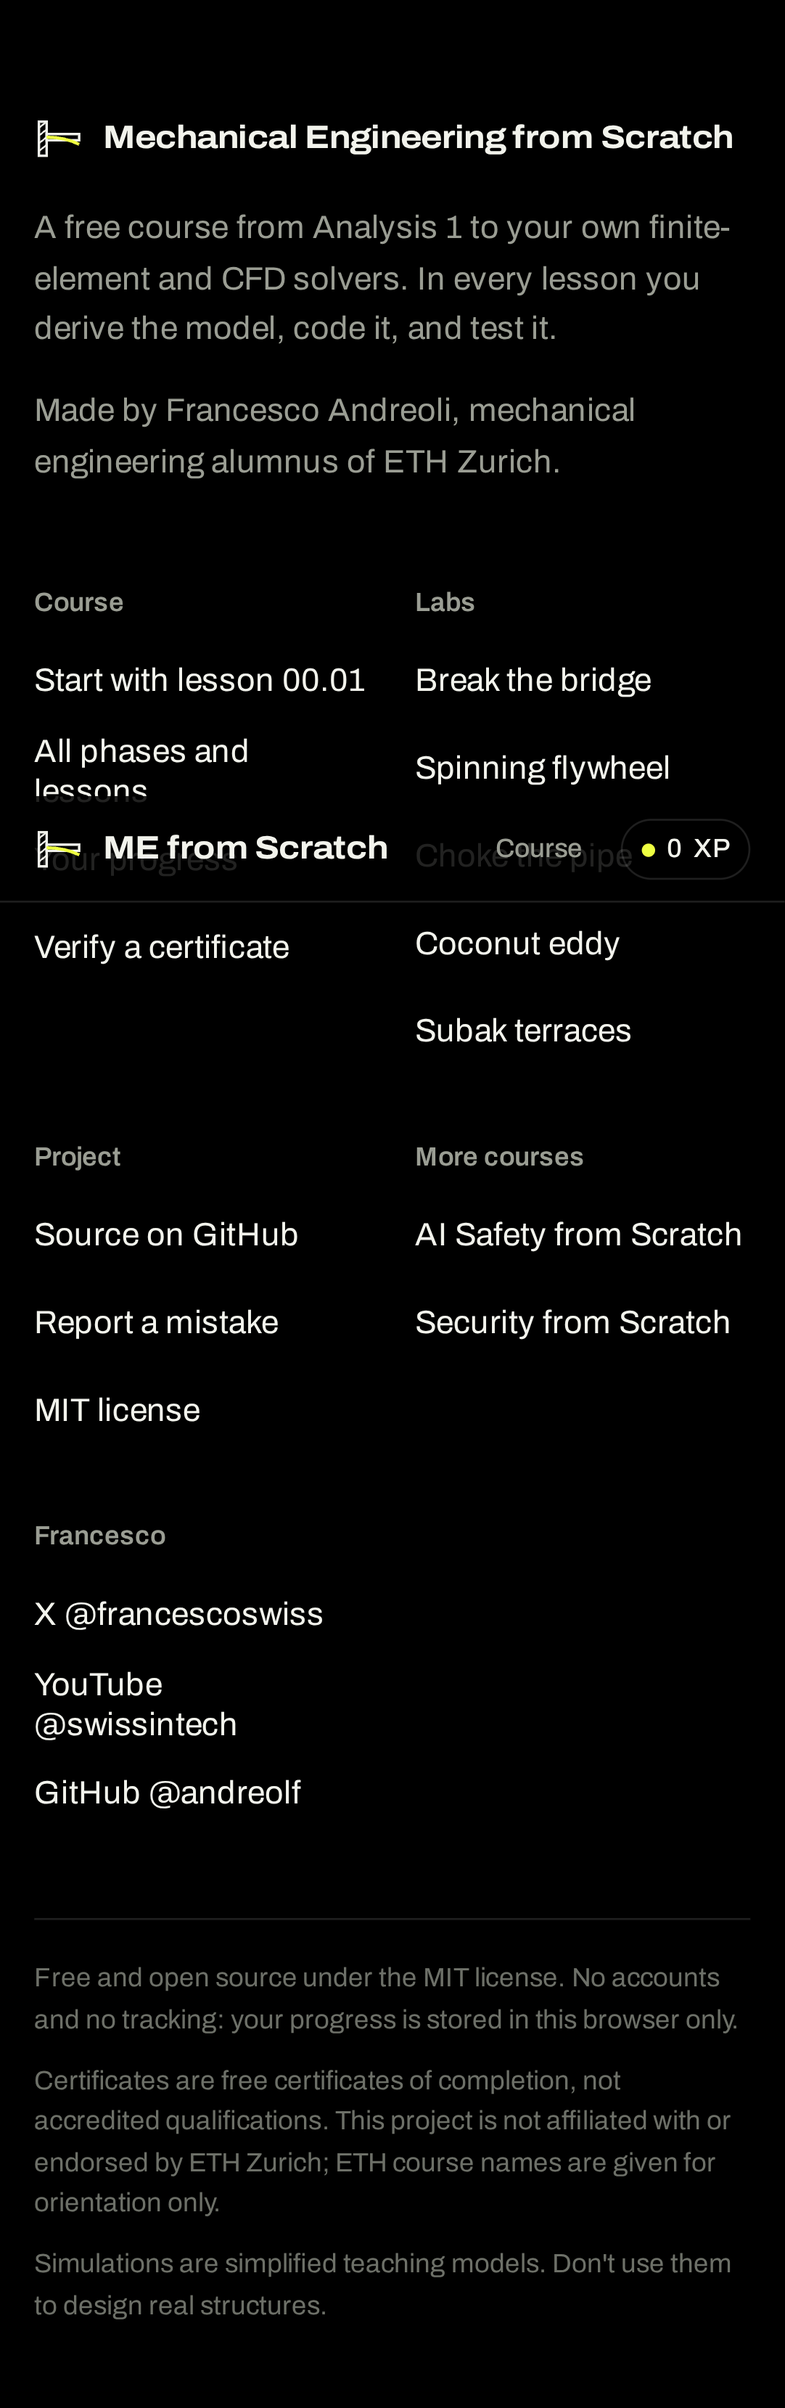
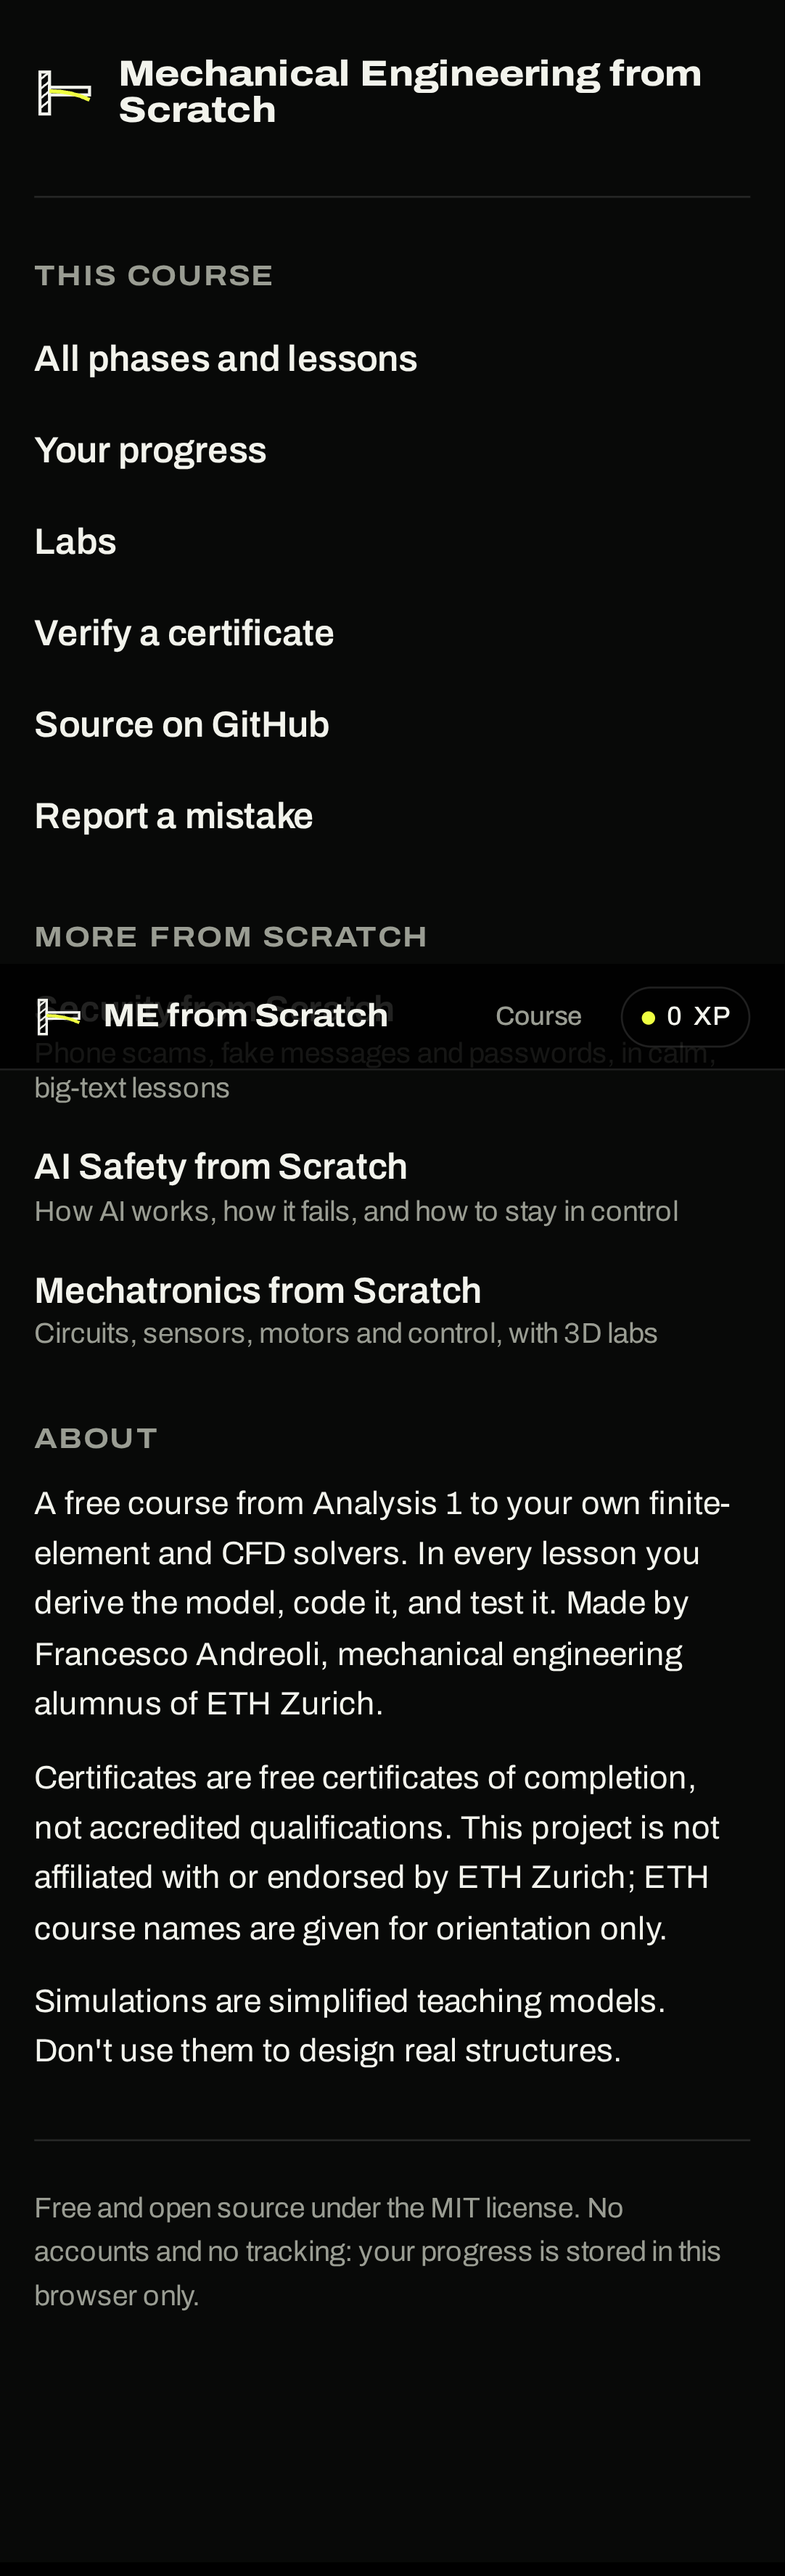
Shared 'from Scratch' footer (spec v1): This course / More from Scratch / About, tokens mapped to this site; footer tests; footer screenshots

diff --git a/site/src/styles/base.css b/site/src/styles/base.css
@@ -89,21 +89,44 @@ input[type=checkbox], input[type=radio] { accent-color: var(--lime); width: 20px
 .xp-chip { display: inline-flex; align-items: center; gap: 6px; min-height: 32px; padding: 0 10px; border-radius: 999px; border: 1px solid var(--rule); color: var(--paper); font-size: var(--t-1); font-variant-numeric: tabular-nums; }
 .xp-chip i { width: 7px; height: 7px; border-radius: 50%; background: var(--lime); }
 
-/* Footer */
-.footer { border-top: 1px solid var(--rule); margin-top: 0; padding: 56px 0 calc(36px + env(safe-area-inset-bottom)); background: var(--ink); }
-.footer-grid { display: grid; gap: 36px 24px; grid-template-columns: 1fr 1fr; }
-.footer-about { grid-column: 1 / -1; max-width: 34em; }
-.footer-about p { color: var(--graphite); margin-top: 12px; }
-.footer h2 { font-size: var(--t-1); font-stretch: 100%; font-weight: 600; letter-spacing: 0; color: var(--graphite); margin: 0 0 12px; }
-.footer ul { list-style: none; margin: 0; padding: 0; display: grid; gap: 2px; }
-.footer li a { display: inline-flex; align-items: center; min-height: 44px; line-height: 1.25; text-decoration: none; color: var(--paper); }
-.footer li a:hover { color: var(--lime); }
-.footer-legal { margin-top: 44px; padding-top: 20px; border-top: 1px solid var(--rule); display: grid; gap: 10px; color: var(--dim); font-size: var(--t-1); }
-.footer-legal p { margin: 0; max-width: 72ch; }
-@media (min-width: 900px) {
-  .footer-grid { grid-template-columns: 2fr repeat(5, 1fr); }
-  .footer-about { grid-column: auto; }
+/* Footer: shared "from Scratch" footer (spec v1). Signal token names mapped to this site's tokens, scoped to the footer. */
+.foot {
+  --surface: var(--raise-2); --surface-2: #080908; --line: var(--rule); --fg: var(--paper); --muted-strong: var(--graphite);
+  --accent: var(--lime); --on-accent: var(--lime-ink); --accent-ink: var(--lime); --font-body: var(--sans);
+  --weight-black: 800; --weight-extrabold: 700; --weight-bold: 600; --weight-regular: 400; --stretch-expanded: 112%;
+  --text-sm: 0.88rem; --text-body: var(--t0); --text-lg: var(--t1); --text-xl: var(--t2); --leading-snug: 1.25; --leading-body: 1.55;
+  --space-1: 4px; --space-2: 8px; --space-3: 12px; --space-4: 16px; --space-5: 24px; --space-6: 32px; --space-7: 48px; --space-8: 64px;
+  --radius: var(--radius-m); --tap-min: 44px; --tap: 48px;
+  color: var(--fg);
 }
+/* Footer: its own band. Top row = brand + emergency callout; grid of three columns; muted bottom row. */
+.foot { background: var(--surface-2); border-top: 1px solid var(--line); margin-top: 0; padding: var(--space-7) 0 calc(var(--space-8) + 64px); font-size: 1.125rem; line-height: var(--leading-body); }
+.foot a { text-decoration: none; }
+.foot-brand:hover span:last-child, .foot-brand:focus-visible span:last-child { text-decoration: underline; text-decoration-thickness: 2px; text-underline-offset: 4px; }
+.foot a:hover .foot-link-t, .foot a:focus-visible .foot-link-t, .foot-list:not(.foot-list-desc) a:hover, .foot-list:not(.foot-list-desc) a:focus-visible { text-decoration: underline; text-decoration-thickness: 2px; text-underline-offset: 4px; text-decoration-color: var(--accent-ink); }
+.foot-top { display: flex; flex-wrap: wrap; align-items: center; justify-content: space-between; gap: var(--space-5); padding-bottom: var(--space-6); border-bottom: 1px solid var(--line); }
+.foot-brand { display: inline-flex; align-items: center; gap: var(--space-3); min-height: var(--tap-min); font-weight: var(--weight-black); font-stretch: var(--stretch-expanded); font-size: clamp(var(--text-body), 4.6vw, var(--text-lg)); line-height: 1; white-space: nowrap; }
+.foot-sos { margin: 0; display: flex; flex-direction: column; align-items: flex-start; gap: var(--space-2); padding: var(--space-4) var(--space-5); background: var(--surface); border: 2px solid var(--fg); border-radius: var(--radius); }
+.foot-sos-label { font-size: var(--text-sm); font-weight: var(--weight-extrabold); line-height: var(--leading-snug); }
+.foot-sos-nums { display: grid; grid-template-columns: repeat(3, auto); justify-content: start; gap: var(--space-6); }
+.foot-sos-nums > span { display: flex; flex-direction: column; gap: var(--space-1); white-space: nowrap; color: var(--muted-strong); font-size: var(--text-sm); }
+.foot-sos-nums b { color: var(--fg); font-weight: var(--weight-black); font-stretch: var(--stretch-expanded); font-size: var(--text-xl); line-height: 1; font-variant-numeric: tabular-nums; }
+.foot-grid { display: grid; grid-template-columns: minmax(0, 1fr) minmax(0, 1.4fr) minmax(0, 1.6fr); gap: var(--space-6) var(--space-7); padding: var(--space-6) 0; }
+.foot-h { margin: 0 0 var(--space-3); font-family: var(--font-body); font-size: var(--text-sm); font-weight: var(--weight-extrabold); text-transform: uppercase; letter-spacing: .06em; color: var(--muted-strong); line-height: var(--leading-snug); }
+.foot-list { list-style: none; margin: 0; padding: 0; display: grid; gap: var(--space-1); }
+.foot-list a { display: flex; align-items: center; min-height: var(--tap-min); font-weight: var(--weight-bold); line-height: var(--leading-snug); }
+.foot-list-desc { gap: var(--space-3); }
+.foot-list-desc a { flex-direction: column; align-items: flex-start; justify-content: center; gap: 2px; padding: var(--space-1) 0; }
+.foot-link-d { font-weight: var(--weight-regular); font-size: var(--text-sm); color: var(--muted-strong); }
+.foot-about p { margin: 0 0 var(--space-3); max-width: 62ch; font-size: var(--text-body); }
+.foot-about p:last-child { margin-bottom: 0; }
+.foot-bottom { display: flex; flex-wrap: wrap; justify-content: space-between; gap: var(--space-2) var(--space-6); padding-top: var(--space-5); border-top: 1px solid var(--line); color: var(--muted-strong); font-size: var(--text-sm); }
+.foot-bottom p { margin: 0; }
+@media (max-width: 960px) { .foot-grid { grid-template-columns: minmax(0, 1fr) minmax(0, 1.4fr); } .foot-about { grid-column: 1 / -1; } }
+@media (max-width: 600px) { .foot { padding-top: var(--space-6); } .foot-sos-nums { align-self: stretch; justify-content: space-between; gap: var(--space-4); } .foot-grid { grid-template-columns: minmax(0, 1fr); gap: var(--space-6); } .foot-sos { width: 100%; } }
+.foot a { color: var(--fg); }
+.foot-brand { white-space: normal; }
+.foot-brand .brand-mark { width: 32px; height: 32px; }
 
 @media (prefers-reduced-motion: reduce) { *, *::before, *::after { transition-duration: 0.01ms !important; animation-duration: 0.01ms !important; scroll-behavior: auto !important; } }
 
@@ -120,4 +143,3 @@ input[type=checkbox], input[type=radio] { accent-color: var(--lime); width: 20px
   .xp-chip { padding: 0 7px; gap: 4px; }
 }
 
-.footer .brand { white-space: normal; }

diff --git a/site/src/chrome.js b/site/src/chrome.js
@@ -29,41 +29,42 @@ export function renderFooter(page) {
   const host = document.getElementById('site-footer');
   if (!host) return;
   const home = page === 'home' ? '' : 'index.html';
-  host.className = 'footer';
+  host.className = 'foot';
+  host.setAttribute('aria-labelledby', 'foot-h');
   host.innerHTML = `<div class="wrap">
-    <div class="footer-grid">
-      <div class="footer-about">
-        <a class="brand" href="${home || './'}">${MARK}<span>Mechanical Engineering from Scratch</span></a>
-        <p>A free course from Analysis 1 to your own finite-element and CFD solvers. In every lesson you derive the model, code it, and test it.</p>
-        <p>Made by Francesco Andreoli, mechanical engineering alumnus of ETH Zurich.</p>
-      </div>
-      <div><h2>Course</h2><ul>
-        <li><a href="learn.html#/00.01">Start with lesson 00.01</a></li>
-        <li><a href="learn.html#/course">All phases and lessons</a></li>
-        <li><a href="learn.html#/progress">Your progress</a></li>
-        <li><a href="learn.html#/verify">Verify a certificate</a></li></ul></div>
-      <div><h2>Labs</h2><ul>
-        <li><a href="${home}#lab-truss">Break the bridge</a></li>
-        <li><a href="${home}#lab-flywheel">Spinning flywheel</a></li>
-        <li><a href="${home}#lab-pipe">Choke the pipe</a></li>
-        <li><a href="https://andreolf.github.io/coconut-lab/" rel="noopener">Coconut eddy</a></li>
-        <li><a href="https://andreolf.github.io/subak-lab/" rel="noopener">Subak terraces</a></li></ul></div>
-      <div><h2>Project</h2><ul>
-        <li><a href="${REPO}" rel="noopener">Source on GitHub</a></li>
-        <li><a href="${REPO}/issues" rel="noopener">Report a mistake</a></li>
-        <li><a href="${REPO}/blob/main/LICENSE" rel="noopener">MIT license</a></li></ul></div>
-      <div data-testid="more-courses"><h2>More courses</h2><ul>
-        <li><a href="https://andreolf.github.io/ai-safety-from-scratch/" rel="noopener">AI Safety from Scratch</a></li>
-        <li><a href="https://andreolf.github.io/security-from-scratch/" rel="noopener">Security from Scratch</a></li></ul></div>
-      <div><h2>Francesco</h2><ul>
-        <li><a href="https://x.com/francescoswiss" rel="noopener">X @francescoswiss</a></li>
-        <li><a href="https://www.youtube.com/@swissintech" rel="noopener">YouTube @swissintech</a></li>
-        <li><a href="https://github.com/andreolf" rel="noopener">GitHub @andreolf</a></li></ul></div>
+    <h2 class="sr-only" id="foot-h">About this site</h2>
+    <div class="foot-top">
+      <a class="foot-brand" href="${home || './'}" aria-label="Mechanical Engineering from Scratch, home">${MARK}<span translate="no">Mechanical Engineering from Scratch</span></a>
     </div>
-    <div class="footer-legal">
+    <div class="foot-grid">
+      <nav class="foot-col" aria-labelledby="foot-course">
+        <h3 class="foot-h" id="foot-course">This course</h3>
+        <ul class="foot-list">
+          <li><a href="learn.html#/course">All phases and lessons</a></li>
+          <li><a href="learn.html#/progress">Your progress</a></li>
+          <li><a href="${home}#labs">Labs</a></li>
+          <li><a href="learn.html#/verify">Verify a certificate</a></li>
+          <li><a href="${REPO}" rel="noopener">Source on GitHub</a></li>
+          <li><a href="${REPO}/issues" rel="noopener">Report a mistake</a></li>
+        </ul>
+      </nav>
+      <nav class="foot-col" aria-labelledby="foot-more" data-testid="sibling-courses">
+        <h3 class="foot-h" id="foot-more">More from Scratch</h3>
+        <ul class="foot-list foot-list-desc">
+          <li><a href="https://andreolf.github.io/security-from-scratch/" target="_blank" rel="noopener"><span class="foot-link-t" translate="no">Security from Scratch</span><span class="foot-link-d">Phone scams, fake messages and passwords, in calm, big-text lessons</span></a></li>
+          <li><a href="https://andreolf.github.io/ai-safety-from-scratch/" target="_blank" rel="noopener"><span class="foot-link-t" translate="no">AI Safety from Scratch</span><span class="foot-link-d">How AI works, how it fails, and how to stay in control</span></a></li>
+          <li><a href="https://andreolf.github.io/mechatronics-from-scratch/" target="_blank" rel="noopener"><span class="foot-link-t" translate="no">Mechatronics from Scratch</span><span class="foot-link-d">Circuits, sensors, motors and control, with 3D labs</span></a></li>
+        </ul>
+      </nav>
+      <section class="foot-col foot-about" aria-labelledby="foot-about">
+        <h3 class="foot-h" id="foot-about">About</h3>
+        <p>A free course from Analysis 1 to your own finite-element and CFD solvers. In every lesson you derive the model, code it, and test it. Made by Francesco Andreoli, mechanical engineering alumnus of ETH Zurich.</p>
+        <p>Certificates are free certificates of completion, not accredited qualifications. This project is not affiliated with or endorsed by ETH Zurich; ETH course names are given for orientation only.</p>
+        <p>Simulations are simplified teaching models. Don't use them to design real structures.</p>
+      </section>
+    </div>
+    <div class="foot-bottom">
       <p>Free and open source under the MIT license. No accounts and no tracking: your progress is stored in this browser only.</p>
-      <p>Certificates are free certificates of completion, not accredited qualifications. This project is not affiliated with or endorsed by ETH Zurich; ETH course names are given for orientation only.</p>
-      <p>Simulations are simplified teaching models. Don't use them to design real structures.</p>
     </div>
   </div>`;
 }

diff --git a/site/tests/home.spec.js b/site/tests/home.spec.js
@@ -179,9 +179,16 @@ test.describe('Home page', () => {
     await footer.scrollIntoViewIfNeeded();
     await expect(footer).toContainText('not affiliated with or endorsed by ETH Zurich');
     await expect(footer.getByRole('link', { name: /GitHub/ }).first()).toHaveAttribute('href', /github\.com\/andreolf/);
-    const more = footer.getByTestId('more-courses');
-    await expect(more.getByRole('link', { name: 'AI Safety from Scratch' })).toHaveAttribute('href', 'https://andreolf.github.io/ai-safety-from-scratch/');
-    await expect(more.getByRole('link', { name: 'Security from Scratch' })).toHaveAttribute('href', 'https://andreolf.github.io/security-from-scratch/');
+    await expect(footer.locator('.foot-h')).toHaveText(['This course', 'More from Scratch', 'About']);
+    const sib = footer.getByTestId('sibling-courses');
+    for (const [name, url] of [['Security from Scratch', 'https://andreolf.github.io/security-from-scratch/'], ['AI Safety from Scratch', 'https://andreolf.github.io/ai-safety-from-scratch/'], ['Mechatronics from Scratch', 'https://andreolf.github.io/mechatronics-from-scratch/']])
+      await expect(sib.getByRole('link', { name })).toHaveAttribute('href', url);
+    await expect(sib.getByRole('link', { name: /Mechanical Engineering from Scratch/ })).toHaveCount(0);
+    const links = await footer.locator('.foot-list a').evaluateAll((as) => as.map((a) => ({ h: a.getBoundingClientRect().height, d: getComputedStyle(a).textDecorationLine, t: getComputedStyle(a.querySelector('.foot-link-t') || a).textDecorationLine })));
+    expect(links.length).toBe(9);
+    for (const l of links) { expect(l.h).toBeGreaterThanOrEqual(44); expect(l.d).toBe('none'); expect(l.t).toBe('none'); }
+    await expect(footer).toContainText("Certificates are free certificates of completion, not accredited qualifications. This project is not affiliated with or endorsed by ETH Zurich; ETH course names are given for orientation only.");
+    await expect(page.locator('main')).not.toContainText(/Sister course|Sibling courses/);
     if (isTouch(info)) {
       const small = await smallTargets(page, '#site-footer');
       expect(small, small.join('\n')).toEqual([]);
